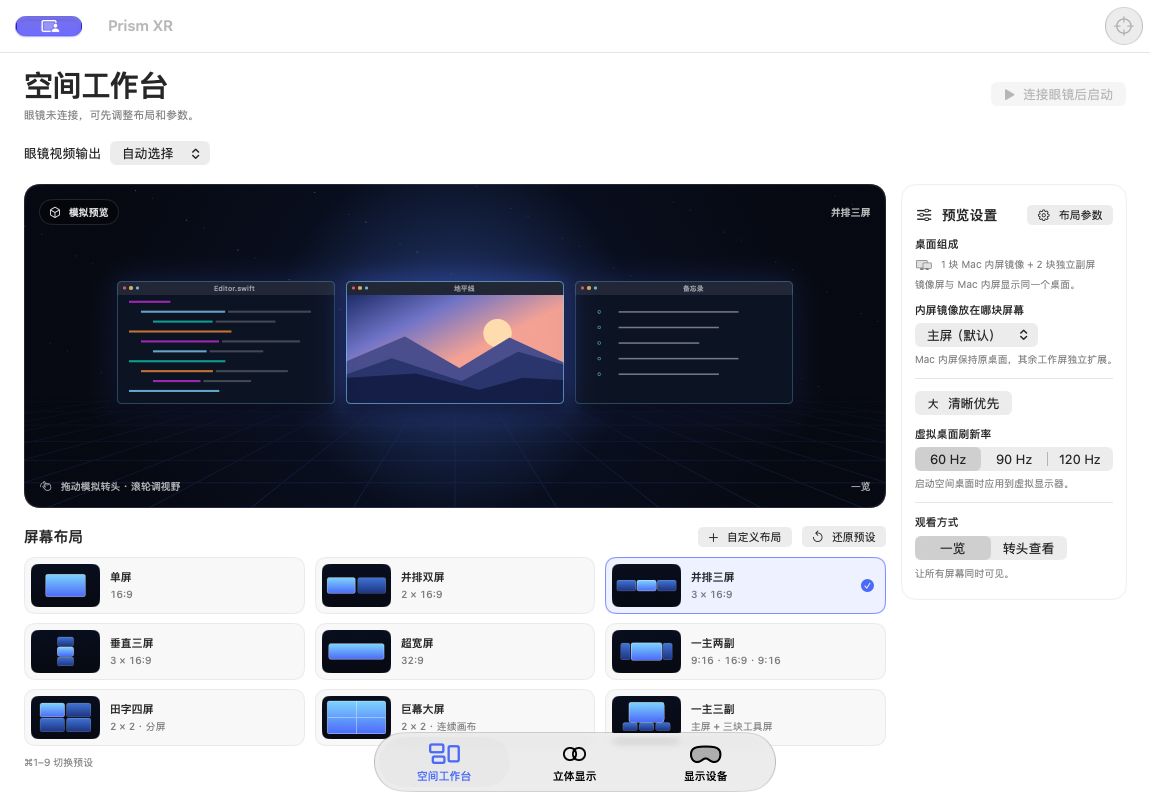
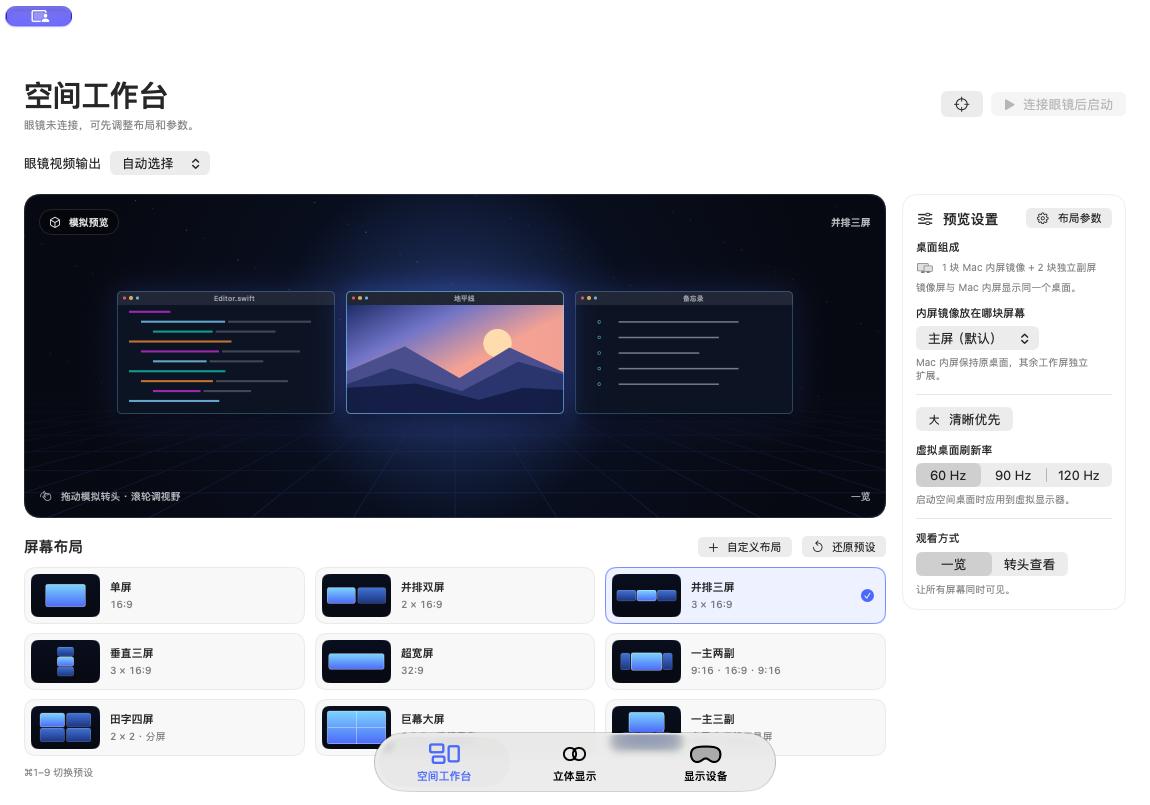
Integrate window header and finalize V1.0 documentation

diff --git a/Sources/PrismApp.swift b/Sources/PrismApp.swift
@@ -26,7 +26,7 @@ struct PrismApp: App {
         .defaultSize(width: 1150, height: 805)
         .defaultPosition(.center)
         .windowResizability(.contentMinSize)
-        .windowToolbarStyle(.unified)
+        .windowStyle(.hiddenTitleBar)
         .commands {
             CommandGroup(after: .appInfo) {
                 Button("检查更新…") { Task { await ReleaseCheck.run() } }
@@ -73,7 +73,6 @@ struct AppWindow: View {
     let glassesOutput: GlassesOutput
     let brightness: InternalBrightness
     @AppStorage("stereoDisparity") private var disparity = 12.0
-    @Environment(\.openWindow) private var openWindow
     @Environment(\.accessibilityReduceMotion) private var reduceMotion
     @Binding var yaw: Double
     @Binding var pitch: Double
@@ -92,34 +91,9 @@ struct AppWindow: View {
         .animation(reduceMotion ? nil : .easeInOut(duration: 0.18), value: destination)
         .frame(maxWidth: .infinity, maxHeight: .infinity)
         .background(Color(nsColor: .windowBackgroundColor))
+        .safeAreaPadding(.top, 30)
         .safeAreaBar(edge: .bottom, spacing: 0) {
             BottomTabBar(selection: $destination)
-        }
-        .toolbar {
-            ToolbarItemGroup(placement: .primaryAction) {
-                if destination == .workspace {
-                    Button {
-                        if tracker.isRunning { tracker.recenter() }
-                        yaw = 0
-                        pitch = 0
-                        roll = 0
-                    } label: {
-                        Label("视角回正", systemImage: "scope")
-                    }
-                    .help("视角回正（⇧⌘R）")
-                    .keyboardShortcut("r", modifiers: [.command, .shift])
-                }
-                if destination == .stereo {
-                    Button {
-                        openWindow(id: destination == .workspace ? "workspace-output" : "stereo-output")
-                    } label: {
-                        Label("SBS 输出", systemImage: "rectangle.split.2x1")
-                            .labelStyle(.titleAndIcon)
-                    }
-                    .disabled(destination == .stereo && stereo.source != .pattern && stereo.pair == nil)
-                    .help("打开独立的左右眼输出窗口")
-                }
-            }
         }
         .task(id: desktop.request(layout: layouts.selection, preferences: layouts.preferences)) {
             desktop.update(desktop.request(layout: layouts.selection, preferences: layouts.preferences))

diff --git a/Sources/StereoView.swift b/Sources/StereoView.swift
@@ -6,13 +6,21 @@ struct StereoView: View {
     let capture: CaptureSession
     @AppStorage("stereoDisparity") private var disparity = 12.0
     @AppStorage("stereoSwapEyes") private var swapEyes = false
+    @Environment(\.openWindow) private var openWindow
     @State private var showImporter = false
     @State private var importError: String?
 
     var body: some View {
         ScrollView {
             VStack(alignment: .leading, spacing: 18) {
-                PageHeading(title: "立体显示", detail: "检查左右眼、调节视差，或在 Mac 上将 2D 内容转为 SBS。")
+                HStack {
+                    PageHeading(title: "立体显示", detail: "检查左右眼、调节视差，或在 Mac 上将 2D 内容转为 SBS。")
+                    Button("SBS 输出", systemImage: "rectangle.split.2x1") {
+                        openWindow(id: "stereo-output")
+                    }
+                    .disabled(session.source != .pattern && session.pair == nil)
+                    .help("打开独立的左右眼输出窗口")
+                }
 
                 sourceSelector
                 previewCard

diff --git a/Sources/WorkspaceView.swift b/Sources/WorkspaceView.swift
@@ -31,6 +31,10 @@ struct WorkspaceView: View {
                 HStack {
                     PageHeading(title: "空间工作台", detail: desktop.isEnabled ? desktop.status :
                                     (desktop.outputAvailable ? "一块镜像 Mac 内屏，其余屏幕独立扩展。" : "眼镜未连接，可先调整布局和参数。"))
+                    Button("视角回正", systemImage: "scope", action: resetViewpoint)
+                        .labelStyle(.iconOnly)
+                        .help("视角回正（⇧⌘R）")
+                        .keyboardShortcut("r", modifiers: [.command, .shift])
                     if desktop.isStarting { ProgressView().controlSize(.small).accessibilityLabel("正在启动空间桌面") }
                     if desktop.isEnabled {
                         Button("识别屏幕", systemImage: "number.square", action: desktop.identifyDisplays)

diff --git a/README.md b/README.md
@@ -1,32 +1,38 @@
 # Prism XR
 
-[简体中文](README.zh-CN.md) · [Download v1.0.1](https://github.com/windycn/prism-xr/releases/latest)
+[English](README.en.md) · [下载 v1.0.0](https://github.com/windycn/prism-xr/releases/tag/v1.0.0)
 
-A native macOS spatial workspace for RayNeo GT-series AR glasses. Mirror the Mac’s built-in display in one position and extend it with independent desktops you can arrange around you.
+面向雷鸟 GT 系列 AR 眼镜的 macOS 空间工作台。在任意一块工作屏镜像 Mac 内屏，其余工作屏扩展为彼此独立的桌面。
 
-![Prism XR workspace with three equally sized screens and simulated content](docs/workspace.png)
+![Prism XR 空间工作台，三块等大的屏幕均为模拟画面](docs/workspace.png)
 
-- **Spatial desktops.** Nine presets and custom drag-to-arrange layouts. Choose which screen mirrors the Mac, where each desktop goes and how large it appears. Resolution, HiDPI, refresh rate and viewing settings are saved per layout.
-- **Viewing controls.** Overview and head-turn viewing, a field-of-view slider and horizon lock. On GT Max, software head tracking supports recentering and stationary calibration. Use the device page for supported hardware modes and diagnostics.
-- **Display controls.** The glasses output is separate from the workspace desktop count. The optional dimming control remembers and restores built-in display brightness.
-- **Stereo preview.** Experimental depth-based SBS preview for images or selected capture sources. Optical compatibility has not been verified.
-- **Updates.** Choose **检查更新…** in the **Prism XR** menu. The app checks the latest stable GitHub release and opens the release page when a newer version is available. Installation is manual.
+- **多屏工作台**。九套预设和可拖拽的自定义布局。可指定镜像屏、调整分辨率与 HiDPI，并分别保存刷新率、观看方式和视野。三屏预设的屏幕等大。
+- **视角与设备**。支持一览、软件转头查看、滚轮调视野和锁定水平线。GT Max 支持静止校准、视角回正，以及已适配的机身模式控制。
+- **显示管理**。眼镜视频输出独立于工作桌面。可将 Mac 内屏亮度降到最低，停止或断开输出时恢复。
+- **立体预览**。提供测试图、图片和采集来源的实验性 SBS 预览，镜内立体效果尚待验证。
+- **检查更新**。在「Prism XR → 检查更新…」查询 GitHub 最新正式版。发现新版本可打开发布页下载，手动安装。
 
-## Compatibility
+## 兼容性
 
-Apple Silicon, macOS 27 or later, and an active Mac built-in display. All physical glasses testing for Prism XR was performed specifically with RayNeo GT Max on earlier development builds. Version 1.0 was checked offline. For other GT models, future RayNeo glasses or compatible external video displays, select the output under **眼镜视频输出**. Generic output uses a fixed view or overview. Head tracking and hardware mode controls depend on the verified GT Max USB protocol. Video compatibility with other models is unverified.
+需要 Apple Silicon、macOS 27 或更新版本，以及可用的 Mac 内置显示器。本项目的眼镜实机测试专门使用雷鸟 GT Max。开发版已验证该型号的视频输出、姿态采样和多屏采集。V1.0 进行了离线验证。其他 GT 型号、后续雷鸟设备或能被 Mac 识别的外接视频设备，可以手动选择「眼镜视频输出」，以一览或固定视角尝试。通用输出的实机兼容性待验证，头部追踪和机身控制依赖已验证的 GT Max USB 协议。
 
-## Getting started
+## 使用
 
-1. Extract the release ZIP and open **Prism XR.app**. The build is ad hoc signed and has not been Apple notarized. You can also build from source.
-2. Connect the glasses over a video-capable USB-C connection. If automatic detection is unavailable, choose the intended external display.
-3. Select a layout and click **开始空间桌面**. Grant macOS Screen & System Audio Recording permission to the running app when requested. An updated ad hoc build may need its permission associated again.
-4. On GT Max, hold still during calibration and use **视角回正** as needed.
+1. 解压发布包，打开 **Prism XR.app**。发布包使用临时签名，尚未经过 Apple 公证，也可从源码自行构建。
+2. 用支持视频的 USB-C 连接眼镜。如未自动识别，在工作台选择对应的外接输出。
+3. 选布局并点击「开始空间桌面」。首次使用需要允许当前应用录制屏幕。更新临时签名构建后，macOS 可能要求重新关联权限。
+4. GT Max 启用软件追踪后，平视静止片刻完成校准。需要时使用「视角回正」。
 
-## Build and verification
+## 构建与验证
 
-With the Xcode 27 toolchain, open `Prism XR.xcodeproj` or run `bash build.sh`. Run `bash Tests/run.sh --gpu` for offline regressions and Metal pixel readback. [Validation notes](VALIDATION.md) record hardware and offline evidence. The user interface is currently in Simplified Chinese.
+使用 Xcode 27 工具链打开 `Prism XR.xcodeproj` 或执行 `bash build.sh`。执行 `bash Tests/run.sh --gpu` 运行离线回归和 GPU 像素回读。实机与离线验证见 [验证记录](VALIDATION.md)。
 
-Virtual displays use private macOS APIs. The [DeskPad MIT notice](Resources/DeskPad-MIT.txt) and [Depth Anything V2 Apache 2.0 license](Resources/Apache-2.0.txt) accompany their respective components. Prism XR is an independent project.
+虚拟显示器使用 macOS 私有接口。第三方组件附有 [DeskPad MIT 声明](Resources/DeskPad-MIT.txt) 和 [Depth Anything V2 Apache 2.0 许可](Resources/Apache-2.0.txt)。Prism XR 是独立项目。
 
-![Custom layout editor with two simulated desktop panels](docs/layout-editor.png)
+![自定义布局编辑器，画布中为两块示例屏幕](docs/layout-editor.png)
+
+## 更多界面
+
+![立体显示测试图](docs/stereo.png)
+
+![显示设备与头部追踪](docs/devices.png)

diff --git a/README.en.md b/README.en.md
@@ -1,0 +1,38 @@
+# Prism XR
+
+[简体中文](README.md) · [Download v1.0.0](https://github.com/windycn/prism-xr/releases/tag/v1.0.0)
+
+A native macOS spatial workspace for RayNeo GT-series AR glasses. Mirror the Mac’s built-in display in one position and extend it with independent desktops you can arrange around you.
+
+![Prism XR workspace with three equally sized screens and simulated content](docs/workspace.png)
+
+- **Spatial desktops.** Nine presets and custom drag-to-arrange layouts. Choose which screen mirrors the Mac, where each desktop goes and how large it appears. Resolution, HiDPI, refresh rate and viewing settings are saved per layout.
+- **Viewing controls.** Overview and head-turn viewing, a field-of-view slider and horizon lock. On GT Max, software head tracking supports recentering and stationary calibration. Use the device page for supported hardware modes and diagnostics.
+- **Display controls.** The glasses output is separate from the workspace desktop count. The optional dimming control remembers and restores built-in display brightness.
+- **Stereo preview.** Experimental depth-based SBS preview for images or selected capture sources. Optical compatibility has not been verified.
+- **Updates.** Choose **检查更新…** in the **Prism XR** menu. The app checks the latest stable GitHub release and opens the release page when a newer version is available. Installation is manual.
+
+## Compatibility
+
+Apple Silicon, macOS 27 or later, and an active Mac built-in display. All physical glasses testing for Prism XR was performed specifically with RayNeo GT Max on earlier development builds. Version 1.0 was checked offline. For other GT models, future RayNeo glasses or compatible external video displays, select the output under **眼镜视频输出**. Generic output uses a fixed view or overview. Head tracking and hardware mode controls depend on the verified GT Max USB protocol. Video compatibility with other models is unverified.
+
+## Getting started
+
+1. Extract the release ZIP and open **Prism XR.app**. The build is ad hoc signed and has not been Apple notarized. You can also build from source.
+2. Connect the glasses over a video-capable USB-C connection. If automatic detection is unavailable, choose the intended external display.
+3. Select a layout and click **开始空间桌面**. Grant macOS Screen & System Audio Recording permission to the running app when requested. An updated ad hoc build may need its permission associated again.
+4. On GT Max, hold still during calibration and use **视角回正** as needed.
+
+## Build and verification
+
+With the Xcode 27 toolchain, open `Prism XR.xcodeproj` or run `bash build.sh`. Run `bash Tests/run.sh --gpu` for offline regressions and Metal pixel readback. [Validation notes](VALIDATION.md) record hardware and offline evidence. The user interface is currently in Simplified Chinese.
+
+Virtual displays use private macOS APIs. The [DeskPad MIT notice](Resources/DeskPad-MIT.txt) and [Depth Anything V2 Apache 2.0 license](Resources/Apache-2.0.txt) accompany their respective components. Prism XR is an independent project.
+
+![Custom layout editor with two simulated desktop panels](docs/layout-editor.png)
+
+## More screenshots
+
+![Stereo test pattern](docs/stereo.png)
+
+![Display and head-tracking diagnostics](docs/devices.png)

diff --git a/README.zh-CN.md b/README.zh-CN.md
@@ -1,6 +1,6 @@
 # Prism XR
 
-[English](README.md) · [下载 v1.0.1](https://github.com/windycn/prism-xr/releases/latest)
+[English](README.en.md) · [下载 v1.0.0](https://github.com/windycn/prism-xr/releases/tag/v1.0.0)
 
 面向雷鸟 GT 系列 AR 眼镜的 macOS 空间工作台。在任意一块工作屏镜像 Mac 内屏，其余工作屏扩展为彼此独立的桌面。
 
@@ -30,3 +30,9 @@
 虚拟显示器使用 macOS 私有接口。第三方组件附有 [DeskPad MIT 声明](Resources/DeskPad-MIT.txt) 和 [Depth Anything V2 Apache 2.0 许可](Resources/Apache-2.0.txt)。Prism XR 是独立项目。
 
 ![自定义布局编辑器，画布中为两块示例屏幕](docs/layout-editor.png)
+
+## 更多界面
+
+![立体显示测试图](docs/stereo.png)
+
+![显示设备与头部追踪](docs/devices.png)

diff --git a/VALIDATION.md b/VALIDATION.md
@@ -49,6 +49,6 @@
 - 启动期间失去视频输出会取消工作台启动并清理资源。手动选定的显示器断开后需重新选择。内屏降亮度助手监视所选视频输出。
 - 版本检查读取公开 GitHub Releases API。通过应用菜单手动触发。
 
-## 1.0.1
+## V1.0 发布前补充
 
 - GitHub 更新检查在匿名 API 限流时，通过官方发布页跳转读取最新正式版标签。
